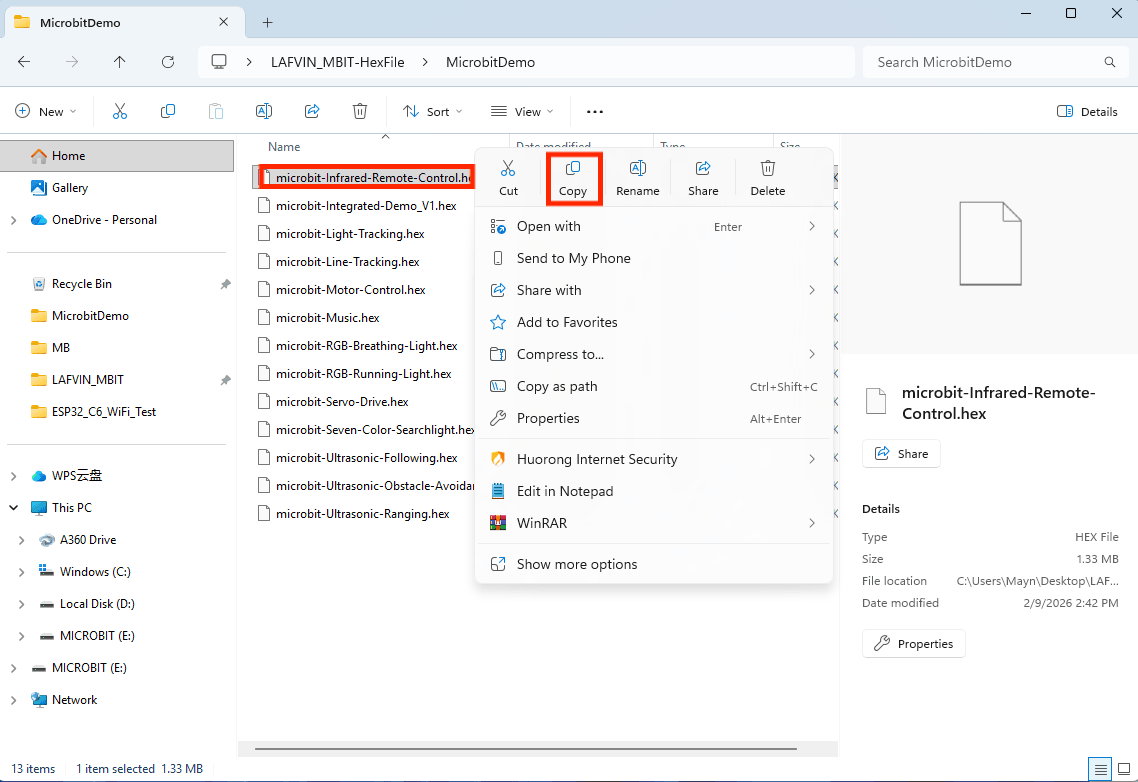
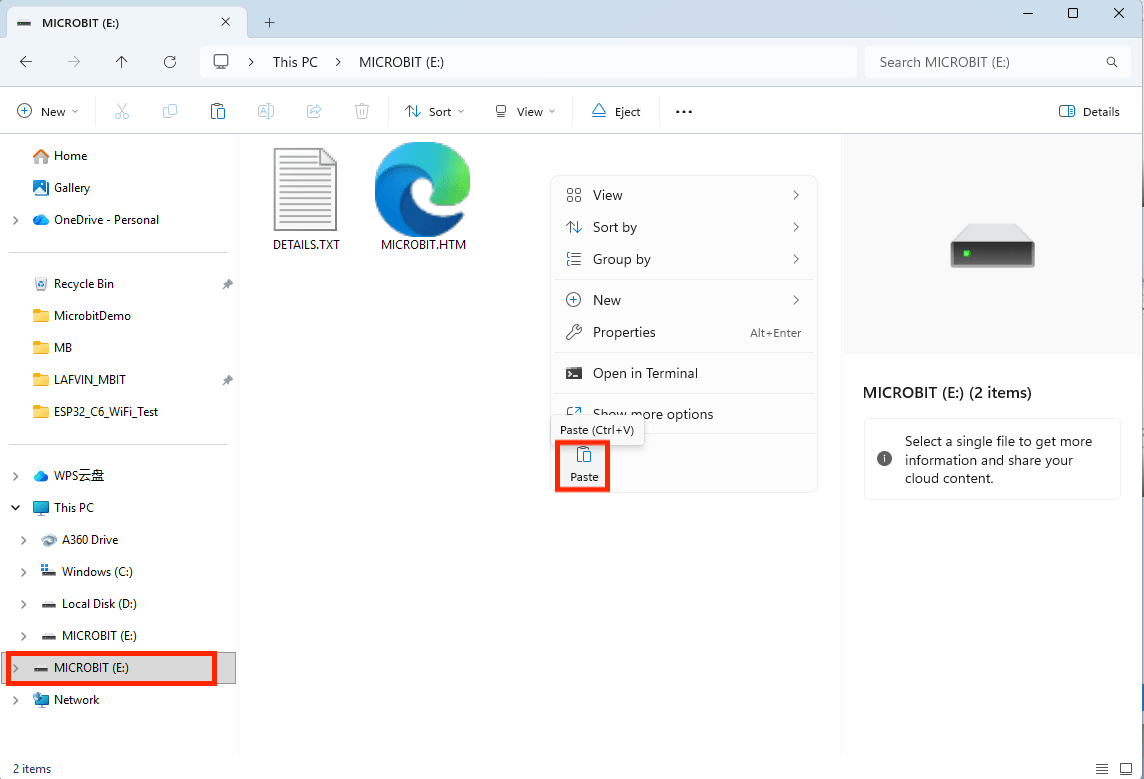
21

diff --git a/docs/source/about this kit.rst b/docs/source/about this kit.rst
@@ -8,18 +8,18 @@ Preface
 
 This is a modular Micro:bit smart car designed for maker education, supporting MakeCode programming and meeting the learning needs of all stages from beginner to competition.
 
-.. figure:: ./Tutorial/img/小车主图.jpg
+.. figure:: ./Tutorial/img/小车主图.png
    :align: center
    :width: 70%
 
 The hardware interfaces :   
 -------------------------------
 
-.. figure:: ./Tutorial/img/小车顶层功能划分图.jpg
+.. figure:: ./Tutorial/img/小车顶层功能划分图.png
    :align: center
    :width: 70%
 
-.. figure:: ./Tutorial/img/小车底层功能划分图.jpg
+.. figure:: ./Tutorial/img/小车底层功能划分图.png
    :align: center
    :width: 70%
 
@@ -71,7 +71,7 @@ Screw kit x1
 
 Line guide map x1
 
-   .. image:: /Tutorial/img/组件清单.jpg
+   .. image:: /Tutorial/img/组件清单.png
 
 DEMO Video
 -------------------------------

diff --git a/docs/source/Appendix/How to download The Code.rst b/docs/source/Appendix/How to download The Code.rst
@@ -12,15 +12,15 @@ Download `code files <https://github.com/lafvintech/LAFVIN_MBIT/archive/refs/hea
 
 .. figure:: ./img/查看磁盘.png
    :align: center
-   :width: 70%
+   :width: 85%
 
 .. figure:: ./img/复制hex文件.png
    :align: center
-   :width: 70%
+   :width: 85%
 
 .. figure:: ./img/拖拽进磁盘.png
    :align: center
-   :width: 70%
+   :width: 85%
 
 
 
@@ -45,7 +45,7 @@ How to use MakeCode
    :align: center
    :width: 85%
 
-1. Open the MakeCode programming interface for micro:bit: `https://makecode.microbit.org/ <https://makecode.microbit.org/>`_
+2. Open the MakeCode programming interface for micro:bit: `https://makecode.microbit.org/ <https://makecode.microbit.org/>`_
 
 .. figure:: ./img/MakeCode首页.png
    :align: center

diff --git a/docs/source/Upload Code/Basic Courses for Cars.rst b/docs/source/Upload Code/Basic Courses for Cars.rst
@@ -83,7 +83,7 @@ Screenshot of makecode graphical interface:
    :align: center
    :width: 100%
 
-1. RGB Breathing Light
+5. RGB Breathing Light
 --------------
 Effect: Four WS2812 lights are installed at the bottom of the car. The color and flashing mode of the lights can be controlled by programming to achieve a breathing light effect.
 
